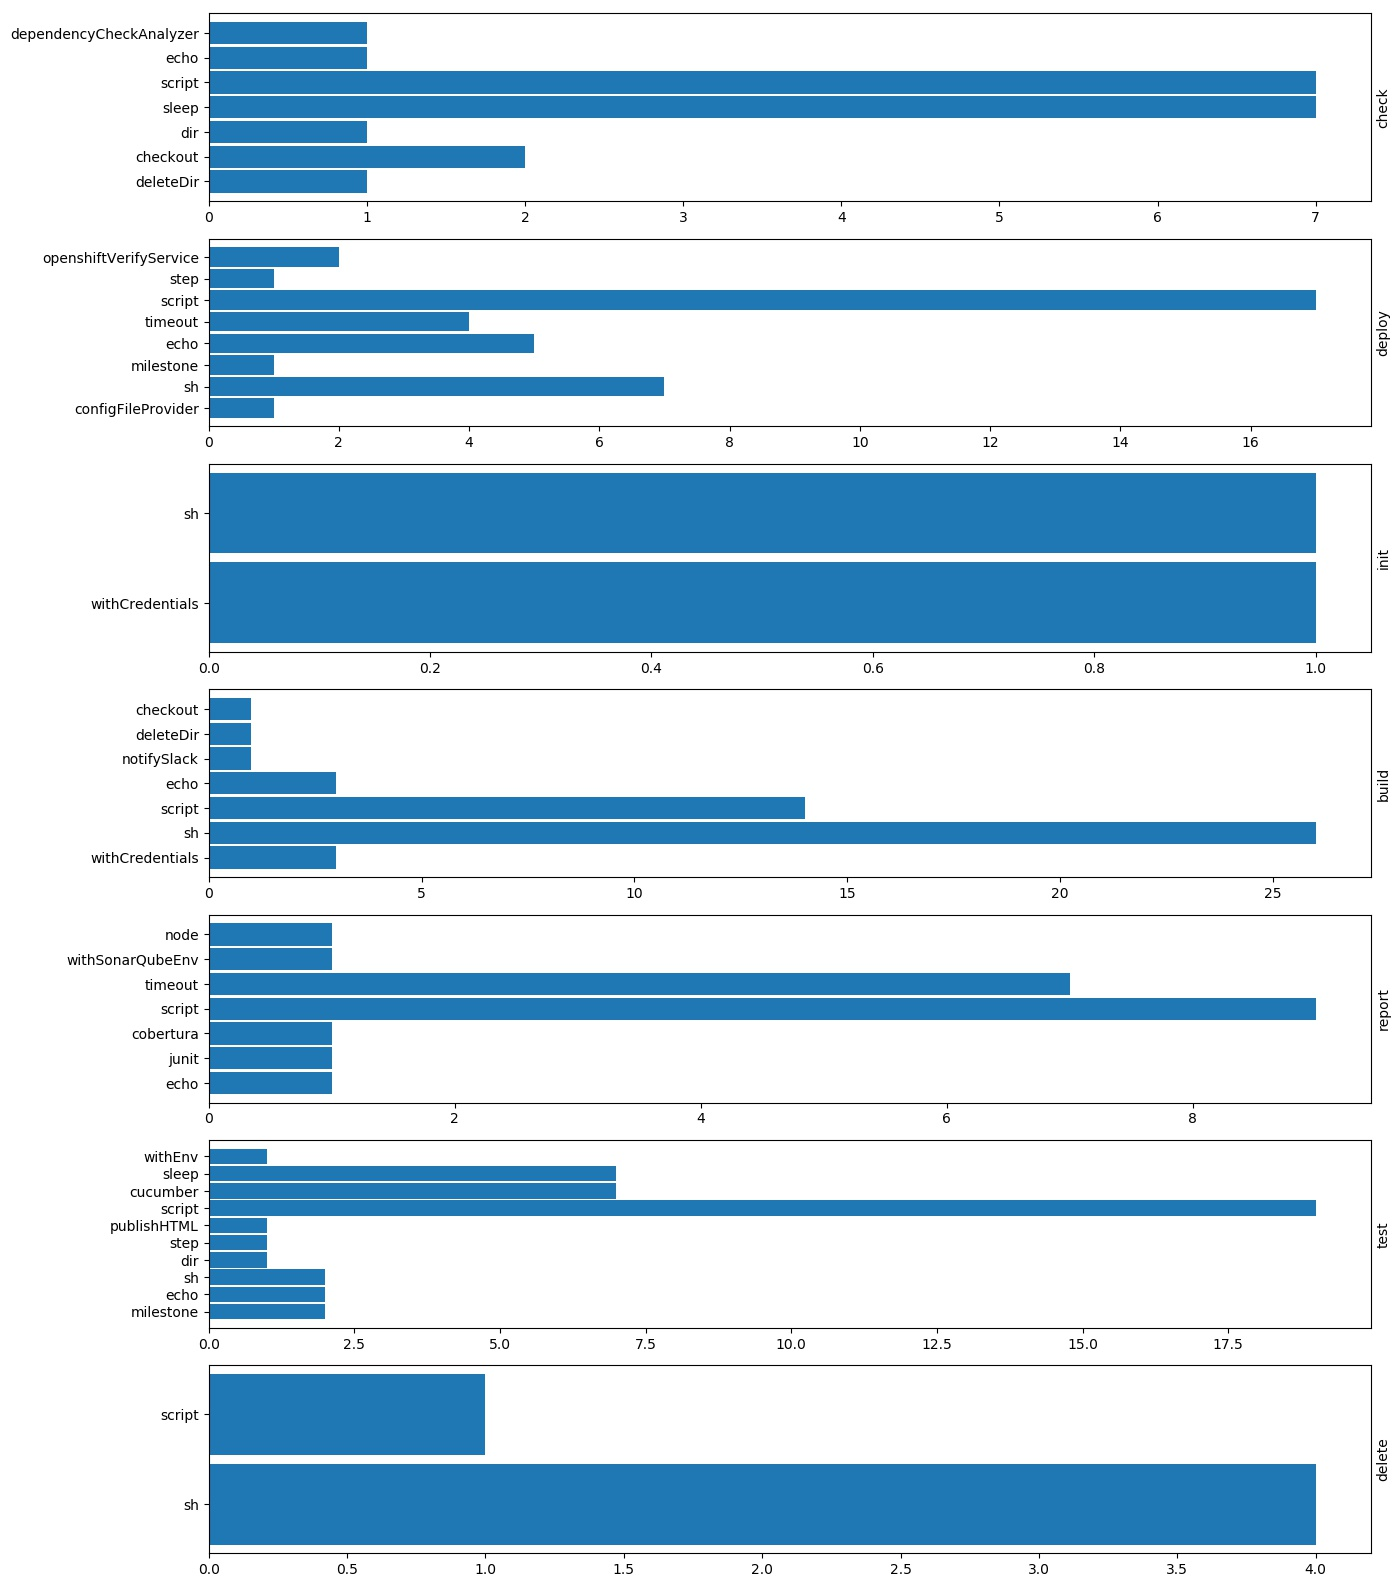
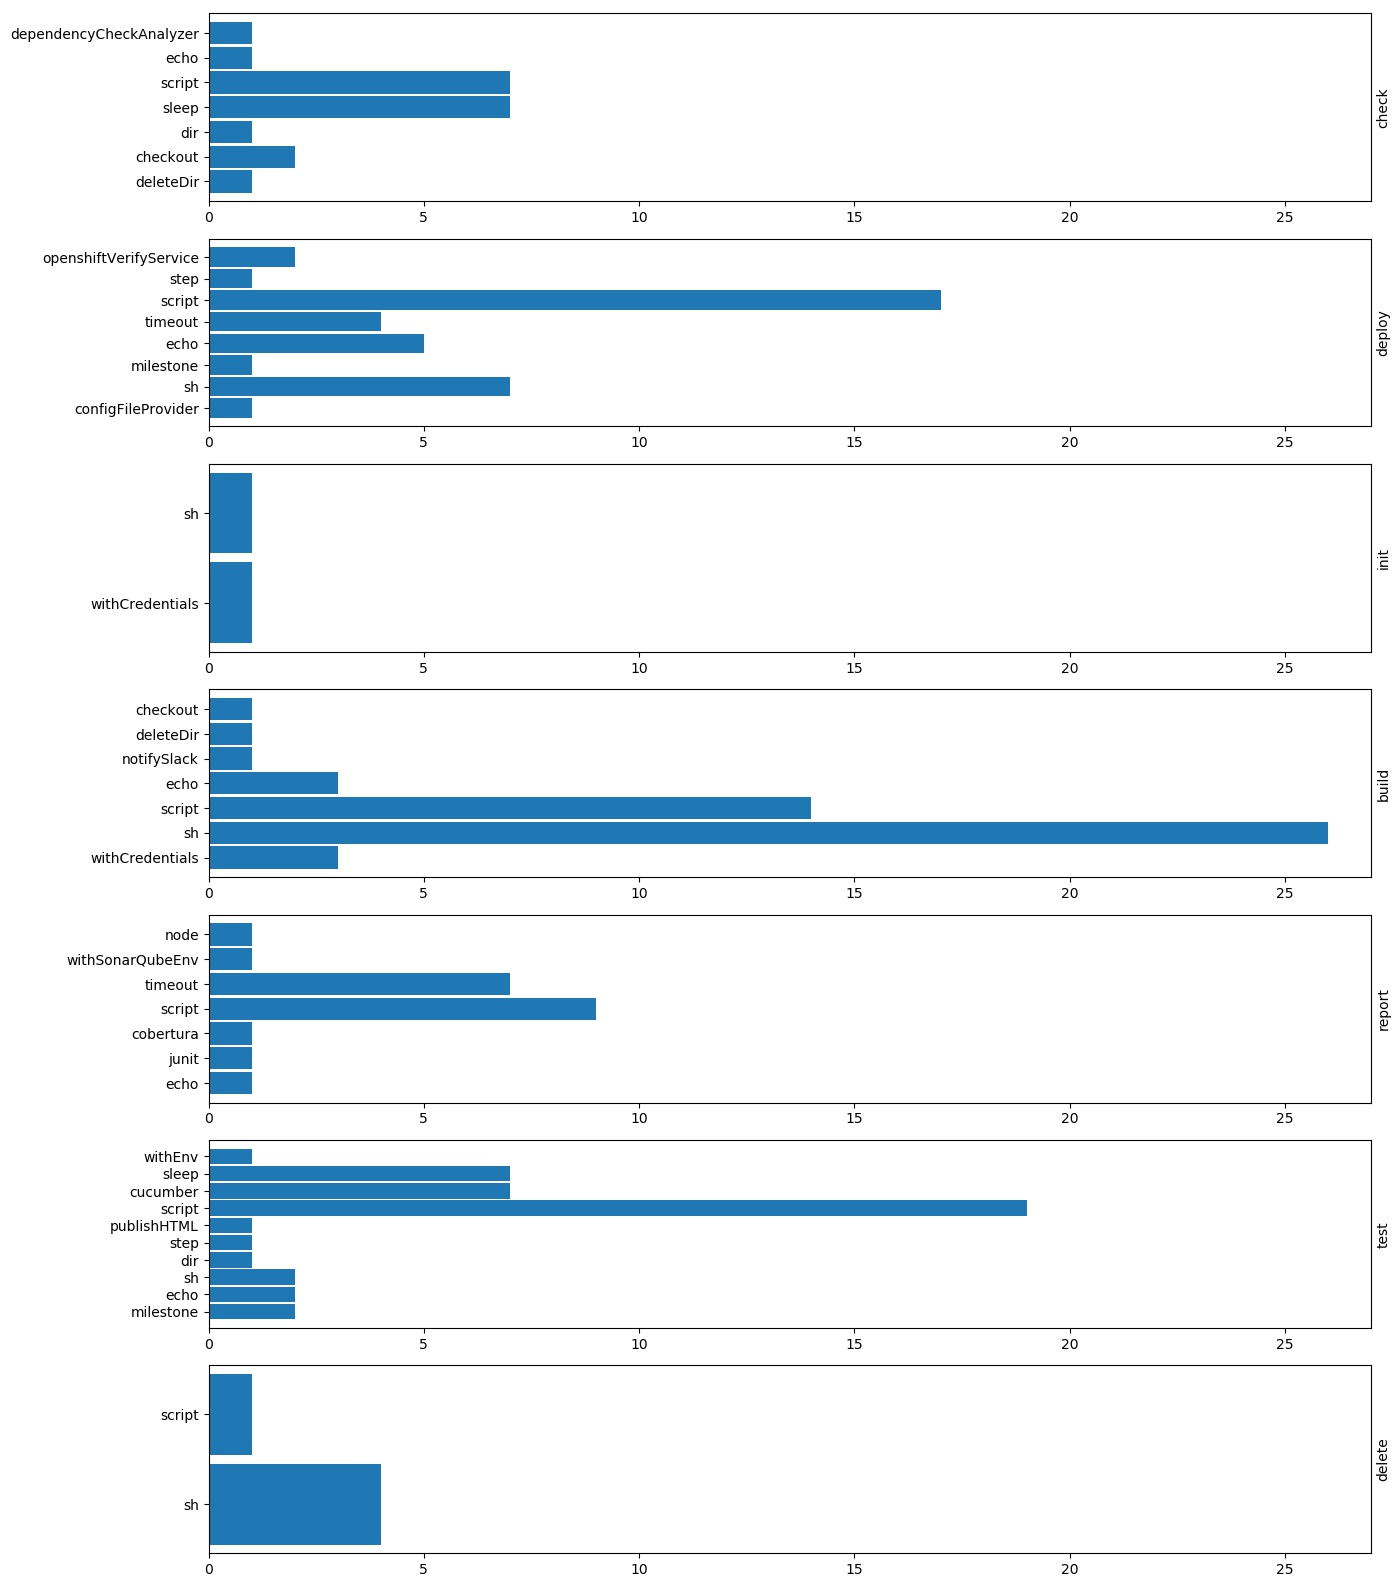
adjusted all plots to same axis

diff --git a/app/q3/freq_ops.py b/app/q3/freq_ops.py
@@ -75,6 +75,11 @@ subPlotCount = len(ops)
 
 keyList = list(cmdDict.keys())
 
+tmpArr = []
+for i,v in enumerate(range(subPlotCount)):
+    tmpArr.extend(list(cmdDict[keyList[v]].values()))
+maxLim = max(tmpArr)
+
 for i,v in enumerate(range(subPlotCount)):
 	myDict = cmdDict[keyList[v]]
 	myKeys = list(myDict.keys())
@@ -84,6 +89,7 @@ for i,v in enumerate(range(subPlotCount)):
 	v = v+1
 	ax1 = subplot(subPlotCount,1,v)
 	ax1.barh(range(length),counts,0.9)
+	ax1.set_xlim(0,maxLim+1)
 	ax1.set_yticks(range(length))
 	ax1.set_yticklabels(myKeys)
 	ax1.set_ylabel(keyList[v-1])
